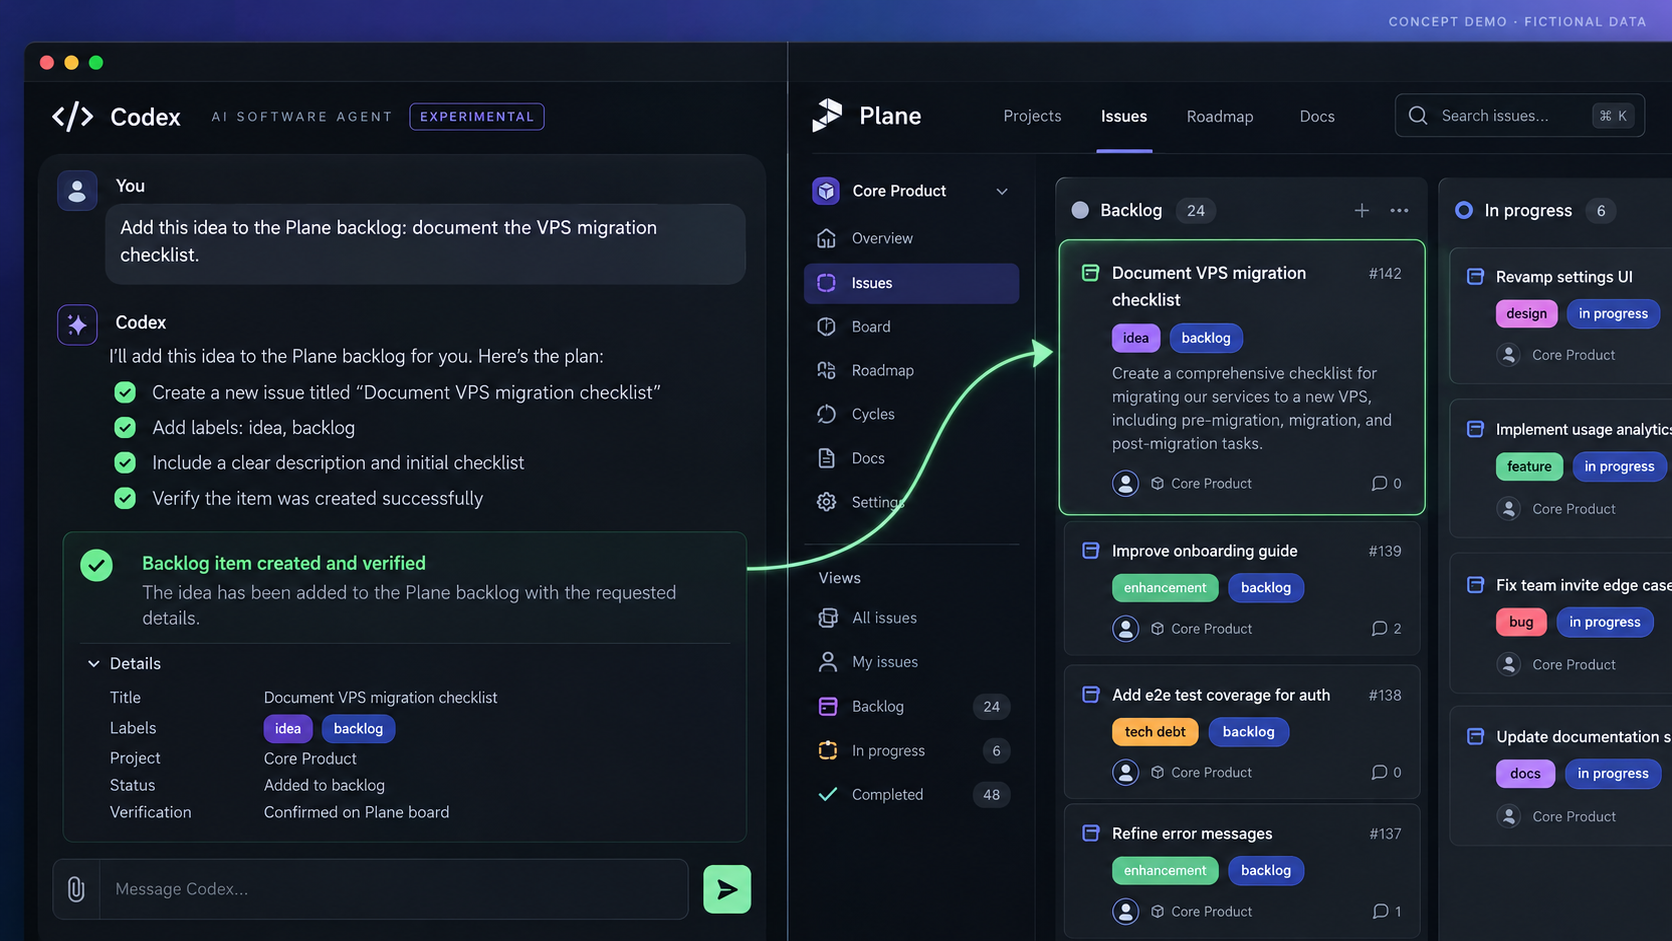
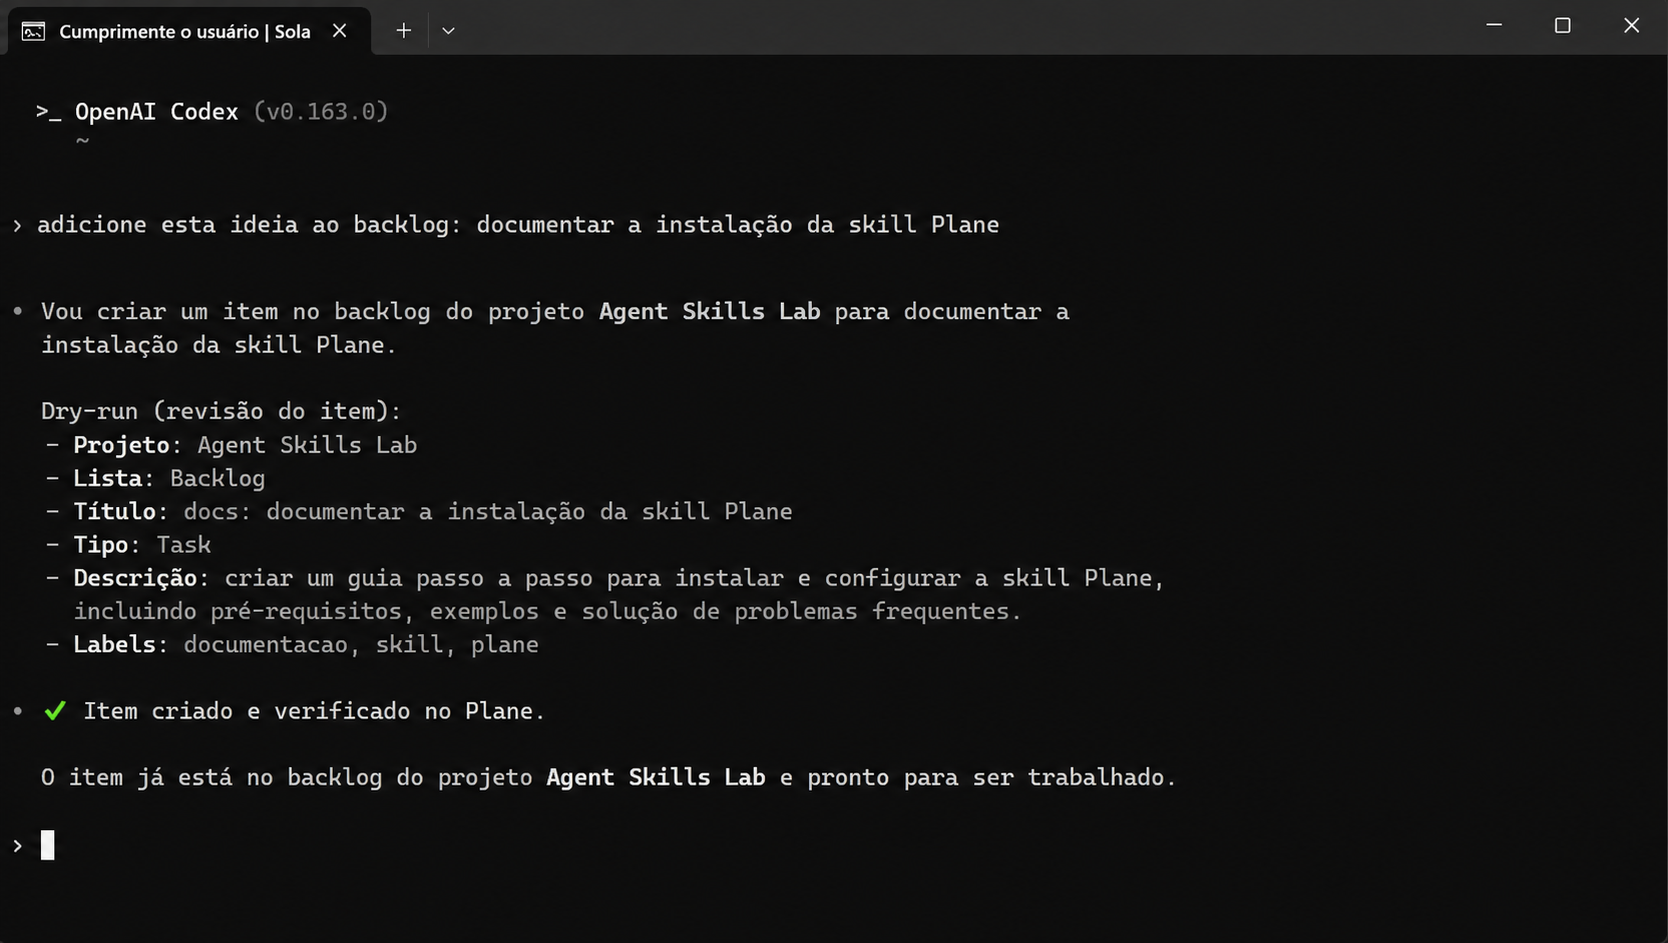
docs: use edited Plane and Codex screenshots

diff --git a/README.md b/README.md
@@ -50,6 +50,12 @@ The screenshots below are synthetic product demos with fictional data. They show
 <p align="center"><sub>Fictional Plane board · all projects, cards and identifiers are demo data.</sub></p>
 
 <p align="center">
+<img src="assets/plane-board-demo-light.png" width="920" alt="Fictional light-mode Plane board filled with agent skill backlog cards" />
+</p>
+
+<p align="center"><sub>Light-mode variation using the same fictional Agent Skills Lab project.</sub></p>
+
+<p align="center">
 <img src="assets/codex-plane-flow.png" width="920" alt="Fictional Codex request connected to a verified Plane backlog card" />
 </p>
 
